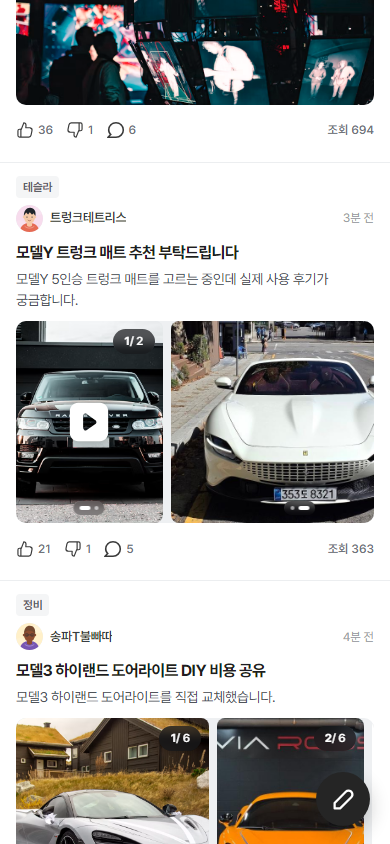
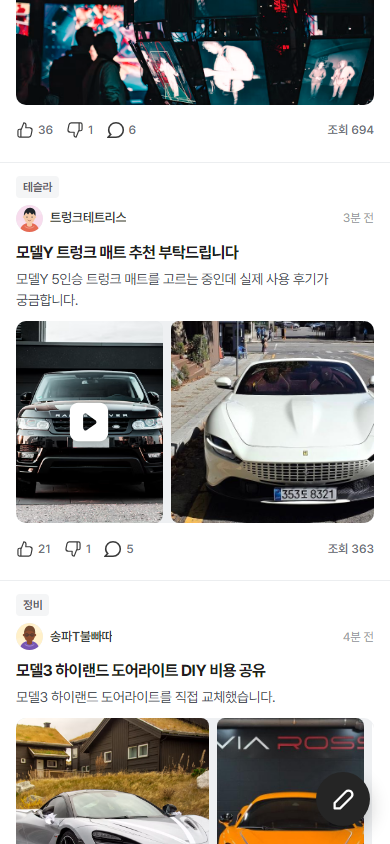
fix: remove ambiguous media pagination

diff --git a/public/community/naver-discussion-feed.js b/public/community/naver-discussion-feed.js
@@ -74,8 +74,7 @@
       var isVideo=Boolean(post.video)&&itemIndex===0;
       var contain=/\.png(?:\?|$)/i.test(source);
       var media=isVideo?'<video muted playsinline preload="metadata" poster="'+esc(source)+'"><source src="'+esc(videoMedia[index%videoMedia.length])+'" type="video/mp4"></video><button class="naverDiscussionVideoToggle" type="button" data-discussion-video aria-label="영상 재생"><img src="'+chototIcon('chotot-common-video-play-white-bg')+'" alt=""></button>':'<a class="naverDiscussionMediaLink" href="'+detailUrl(post)+'" aria-label="'+esc(title)+' 사진 '+(itemIndex+1)+' / '+sources.length+' 상세 보기"><img src="'+esc(source)+'" alt="" loading="'+(index===0&&itemIndex===0?'eager':'lazy')+'"'+(index===0&&itemIndex===0?' fetchpriority="high"':'')+'></a>';
-      var pagination=multiple?'<span class="naverDiscussionMediaCount"><b>'+(itemIndex+1)+'</b> / '+sources.length+'</span><span class="naverDiscussionMediaDots" aria-hidden="true">'+sources.map(function(_,dotIndex){return '<i'+(dotIndex===itemIndex?' class="is-active"':'')+'></i>';}).join('')+'</span>':'';
-      return '<div class="naverDiscussionMediaItem'+(contain?' is-contain':'')+'" data-discussion-media-index="'+itemIndex+'" data-kind="'+(isVideo?'video':'image')+'" data-ratio="'+ratio+'">'+media+pagination+'</div>';
+      return '<div class="naverDiscussionMediaItem'+(contain?' is-contain':'')+'" data-discussion-media-index="'+itemIndex+'" data-kind="'+(isVideo?'video':'image')+'" data-ratio="'+ratio+'">'+media+'</div>';
     }).join('');
     return '<div class="naverDiscussionMediaShell'+(multiple?' is-multi':'')+'"><div class="naverDiscussionMediaRail" tabindex="0" aria-label="'+esc(title)+' 사진과 영상, 좌우로 넘기기">'+items+'</div></div>';
   }

diff --git a/public/community/naver-discussion-feed.css b/public/community/naver-discussion-feed.css
@@ -59,11 +59,6 @@
 .naverDiscussionMediaLink{display:block;width:100%;height:100%;text-decoration:none}
 .naverDiscussionMediaItem img,.naverDiscussionMediaItem video{display:block;width:100%;height:100%;object-fit:cover}
 .naverDiscussionMediaItem.is-contain img{object-fit:contain}
-.naverDiscussionMediaCount{position:absolute;right:8px;top:8px;z-index:2;min-width:42px;height:25px;padding:0 9px;display:flex;align-items:center;justify-content:center;border-radius:14px;background:rgba(23,25,28,.72);color:#fff;font-size:11.5px;line-height:25px;font-weight:560;letter-spacing:-.01em;pointer-events:none;backdrop-filter:blur(5px)}
-.naverDiscussionMediaCount b{font-weight:750}
-.naverDiscussionMediaDots{position:absolute;left:50%;bottom:8px;z-index:2;display:flex;align-items:center;gap:4px;padding:5px 6px;transform:translateX(-50%);border-radius:12px;background:rgba(19,21,24,.35);pointer-events:none;backdrop-filter:blur(5px)}
-.naverDiscussionMediaDots i{width:4px;height:4px;flex:0 0 4px;border-radius:50%;background:rgba(255,255,255,.58)}
-.naverDiscussionMediaDots i.is-active{width:11px;flex-basis:11px;border-radius:4px;background:#fff}
 .naverDiscussionVideoToggle{position:absolute;inset:0;z-index:1;display:grid;place-items:center;background:transparent}
 .naverDiscussionVideoToggle>img{width:46px;height:46px;object-fit:contain;filter:drop-shadow(0 2px 7px rgba(0,0,0,.25));pointer-events:none}
 .naverDiscussionVideoToggle.is-playing{display:none}

diff --git a/public/community/naver-cafe-list.html b/public/community/naver-cafe-list.html
@@ -7,7 +7,7 @@
 <title>보배드림 커뮤니티</title>
 <link rel="stylesheet" href="../%61ssets/fonts/pretendard/pretendard-guazi.css">
 <link rel="stylesheet" href="./reddit-feed.css?v=20261016redditicons1">
-<link rel="stylesheet" href="./naver-discussion-feed.css?v=20261016navermedia1">
+<link rel="stylesheet" href="./naver-discussion-feed.css?v=20261016navermedia2">
 <link rel="stylesheet" href="./chotot-feed.css?v=20261016saveicon1">
 <link rel="stylesheet" href="./reddit-popular.css?v=20261016popular6">
 <link rel="stylesheet" href="./hupu-board-navigation.css?v=20261016reorder3">
@@ -207,7 +207,7 @@ renderList();
 <script src="./scenario-data.js?v=20261015avatars1"></script>
 <script src="./reddit-popular.js?v=20261016popular6"></script>
 <script src="./reddit-feed.js?v=20261016redditicons1"></script>
-<script src="./naver-discussion-feed.js?v=20261016navermedia1"></script>
+<script src="./naver-discussion-feed.js?v=20261016navermedia2"></script>
 <script src="./chotot-feed.js?v=20261016redditicons2"></script>
 </body>
 </html>

diff --git a/design-qa.md b/design-qa.md
@@ -174,7 +174,7 @@ final result: passed
 - image quality and asset fidelity: 게시판·작성자·게시물 이미지는 기존 데이터와 저장소의 차량 이미지·영상 3개를 사용한다. PNG 차량 컷은 `contain`, 사진·영상은 `cover`로 처리한다. 첫 사진만 우선 로딩하고 나머지는 지연 로딩한다.
 - copy and content: 네이버 원문 게시물은 복사하지 않고 기존 보배드림 테스트 게시물로 토론 카테고리·작성자·제목·요약·반응 수를 구성했다.
 - interaction: 버프·너프는 아이콘·숫자·선택 기능만 유지하고 보이는 텍스트는 제거했다. 다중 미디어는 초톳·스레드 방식의 가로 스와이프와 스냅을 제공하고, 가로형·정사각형·세로형·긴 세로형을 같은 높이의 레일에 섞는다. 영상은 중앙 재생 버튼으로 실제 재생되며 다른 영상을 틀면 이전 영상이 멈춘다. 댓글·상세 이동도 유지한다.
-- responsive verification: 360/390/412px에서 다중 미디어 레일 14개, 이미지 비율 4종, 영상 카드 4개, 첫 레일 1→2 이동, 카드마다 투표 아이콘 2개, 보이는 버프·너프 문구 0개, 문서 가로 오버플로 0px을 확인했다.
+- responsive verification: 360/390/412px에서 다중 미디어 레일 14개, 이미지 비율 4종, 영상 카드 4개, 첫 레일 1→2 이동, 페이지 번호·도트 0개, 카드마다 투표 아이콘 2개, 보이는 버프·너프 문구 0개, 문서 가로 오버플로 0px을 확인했다.
 - browser verification: Chrome에서 콘솔 오류 0건과 3개 모바일 폭 자동 검사를 확인했다.
 
 ## Comparison history
@@ -187,6 +187,7 @@ final result: passed
 - 사용자 후속 수정 3: 사진이 여러 장인 게시물은 좌우 스와이프 레일로 바꾸고 다음 사진 미리보기, 스냅, `현재 / 전체` 표시와 페이지 점을 추가했다. 사진 한 장은 기존 전체 폭을 유지했다.
 - 사용자 후속 수정 4: `현재 / 전체` 번호는 선택 이미지 우측 상단 안쪽, 페이지 점은 선택 이미지 하단 중앙을 기준으로 배치했다. 다음 이미지 미리보기 영역에는 페이지네이션이 걸치지 않는다.
 - 사용자 후속 수정 5: 초톳 주민 리뷰를 다시 확인해 같은 높이 안에서 가로·정사각·세로 이미지 폭을 보존하도록 바꿨다. 영상 게시물은 실제 로컬 MP4와 재생 버튼을 연결했고 페이지네이션은 각 미디어 카드 안에 개별 배치했다.
+- 사용자 후속 수정 6: 한 화면에 서로 다른 폭의 미디어 카드가 2개 이상 보이는 레일에서는 현재 페이지 기준이 모호해 번호와 도트를 모두 제거했다. 좌우 스크롤·스냅·다음 카드 노출·영상 재생은 유지했다.
 
 final result: passed
 
